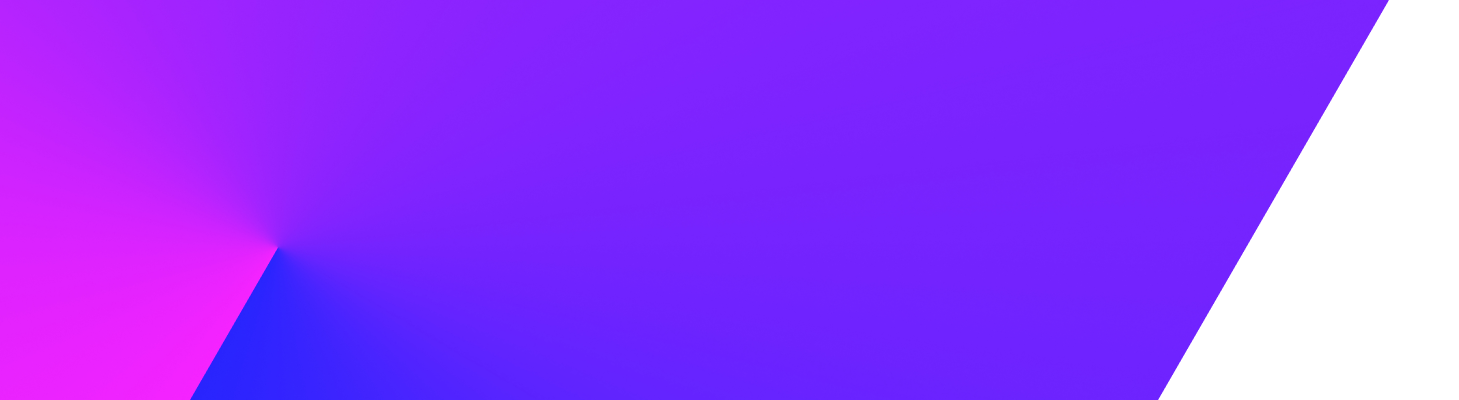
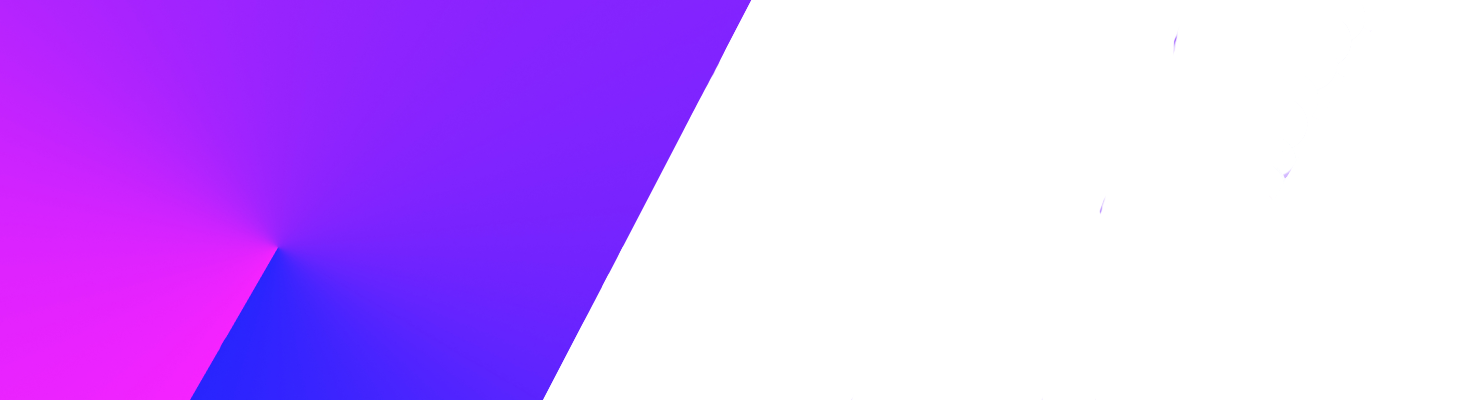
header default terminado y comienzo de index

diff --git a/style.css b/style.css
@@ -1,0 +1,150 @@
+* {
+    margin: 0;
+    padding: 0;
+    box-sizing: border-box;
+}
+
+body {
+    background-color: #FFF;
+}
+html{
+    font-size: 20px;
+}
+.header-up {
+    display: flex;
+    justify-content: space-between;
+    align-items: center;
+    padding: 1.3% 5%;
+}
+.header-logo {
+    display: flex;
+    align-items: center;
+    gap: 8px;
+}
+.header-logo h3 {
+    color: #2F2F2F;
+    font-family: Mulish;
+    font-size: clamp(0.7rem, 1.4vw, 9rem);
+    font-weight: bold;
+    cursor: default;
+}
+.header-logo img {
+    max-height: clamp(1.5rem, 1.8vw, 15rem);
+    pointer-events: none;
+}
+.header-menu {
+    display: flex;
+    justify-content: center;
+    gap: 24%;
+    padding-right: 120px;
+}
+.header-menu a {
+    text-decoration: none;
+    color: #2F2F2F;
+    font-family: Mulish;
+    font-size: clamp(0.7rem, 1vw, 9rem);
+    font-weight: 600;
+}
+
+.menu-option p {
+    color: #CFCFCF;
+    font-variant-numeric: lining-nums proportional-nums;
+    font-family: Mulish;
+    font-size: clamp(0.7rem, 0.7vw, 7.5rem);
+    font-weight: bold;
+    cursor: default;
+}
+.menu-option .menu-01 {
+    color: #5236FF;
+}
+.menu-option div {
+    display: flex;
+    align-items: center;
+    gap: 5px;
+}
+.menu-optionIMG img {
+    padding-top: 5px;
+    cursor: pointer;
+}
+.header-right {
+    display: flex;
+    align-items: center;
+    gap: 20px;
+}
+.header-rightMarket {
+    display: flex;
+    justify-content: center;
+    background-color: #5956E9;
+    cursor: pointer;
+    align-items: center;
+    border-radius: 4vh;
+    padding: clamp(0.8rem, 1vw, 15rem);
+    border: none;
+}
+.header-rightMarket img {
+    height: clamp(0.7rem, 1vw, 7.5rem);
+    pointer-events: none;
+}
+.header-right button {
+    background: none;
+    border-radius: 62px;
+    border: 1px solid #7d7c7c;
+    height: clamp(2.5rem, 2.5vw, 18rem);
+    width:  clamp(3.5rem, 6.3vw, 20rem);
+    font-size: clamp(0.5rem, 1vw, 4rem);
+    cursor: pointer;
+}
+.header-down {
+    display: flex;
+    justify-content: center;
+    padding-top: 1.5%;
+}
+.header-downContainer {
+    background-color: #3420ff;
+    width: 91vw;
+    height: 41.8vw;
+    display: flex;
+    flex-direction: column;
+    align-items: center;
+    justify-content: flex-start;
+    font-family: Mulish;
+    gap: 0.5vw;
+    border-radius: 0.9vw;
+    padding-top: 5.8vw;
+    background-image: url("/img/index-background-banner-left.png"), url("/img/index-background-banner-right.png");
+    background-size: 55% 100%, 50% 100%;
+    background-position: left,right;
+    background-repeat: no-repeat;
+    background-blend-mode: color-dodge;
+}
+.header-downContainer h2 {
+    font-size: 3vw;
+    color: #FFFF;
+    text-align: center;
+}
+.header-downContainer p {
+    font-size: 1vw;
+    color: #FFFF;
+    padding-bottom: 2vw;
+}
+.header-downContainer button {
+    height: 4vw;
+    width: 15vw;
+    font-size: 1.1vw;
+    align-items: center;
+    gap: 10px;
+    border-radius: 2vw;
+    background: #FFF;
+    border: none;
+    cursor: pointer;
+}
+.header-downGraphics {
+    display: flex;
+    justify-content: center;
+}
+.header-downGraphics img {
+    position: absolute;
+    height: 30vw;
+    padding-top: 2vw;
+    box-shadow: 0 10px 10px -5px rgba(224, 203, 253));
+}

diff --git a/index.html b/index.html
@@ -1,0 +1,68 @@
+<!DOCTYPE html>
+<html lang="en">
+<head>
+    <meta charset="UTF-8">
+    <meta name="viewport" content="width=device-width, initial-scale=1.0">
+    <title>Webflow Website</title>
+    <link rel="stylesheet" href="style.css">
+    <link href="https://fonts.googleapis.com/css2?family=Mulish&display=swap" rel="stylesheet">
+</head>
+<body>
+    <header>
+        <section class="header-up">
+            <div class="header-logo">
+                <img src="img/logo-header.png" alt="logo-header-left">
+                <h3>Techologycal</h3>
+            </div>
+            <div class="header-menu">
+                <div class="menu-option">
+                    <p class="menu-01">01</p>
+                    <a href="#">Home</a>
+                </div>
+                <div class="menu-option">
+                    <p class="menu-02">02</p>
+                    <div class="menu-optionIMG">
+                        <a href="#">Feauters</a>
+                        <img src="img/header-icon-downarrow.png" alt="header-icon-downarrow">
+                    </div>
+                </div>
+                <div class="menu-option">
+                    <p class="menu-03">03</p>
+                    <a href="">Resources</a>
+                </div>
+                <div class="menu-option">
+                    <p class="menu-04">04</p>
+                    <a href="#">Pricing</a>
+                </div>
+                <div class="menu-option">
+                    <p>05</p>
+                    <a href="#">Blog</a>
+                </div>
+            </div>
+            <div class="header-right">
+                <div class="header-rightMarket">
+                    <img src="img/icon-market-header.png" alt="icon-market-header">
+                </div>
+                <button>Sign In</button>
+            </div>
+        </section>
+        <section class="header-down">
+            <div class="header-downContainer">
+                <h2>
+                    All In One Social Media Management<br>
+                    Solution
+                   For Businesses
+                </h2>
+                <p>
+                    Lorem Ipsum is simply dummy text of the printing
+                    and typesetting industry.
+                </p>
+                <button>Create Free Account</button>
+                <div class="header-downGraphics">
+                    <img src="img/header-graphics.png" alt="header-graphics">
+                </div>
+            </div>
+        </section>
+    </header>
+</body>
+</html>

diff --git a/default.css b/default.css
@@ -97,17 +97,24 @@ html{
 .header-down {
     display: flex;
     justify-content: center;
+    padding-top: 1.5%;
 }
 .header-downContainer {
     background-color: #3420ff;
     width: 91vw;
-    height: 21vw;
+    height: 23vw;
     display: flex;
     flex-direction: column;
     align-items: center;
     justify-content: center;
     font-family: Mulish;
     gap: 0.5vw;
+    border-radius: 0.9vw;
+    background-image: url("/img/header-banner-left-img.png"), url("/img/header-banner-right-img.png");
+    background-repeat: no-repeat;
+    background-size: cover;
+    background-position: left,right;
+    background-blend-mode:color-dodge;
 }
 .header-downContainer h2 {
     font-size: 3vw;
@@ -116,4 +123,5 @@ html{
 }
 .header-downContainer p {
     font-size: 1vw;
+    color: #FFFF;
 }

diff --git a/default.html b/default.html
@@ -55,7 +55,6 @@
                 </p>
             </div>
         </section>
-        
     </header>
 </body>
 </html>
